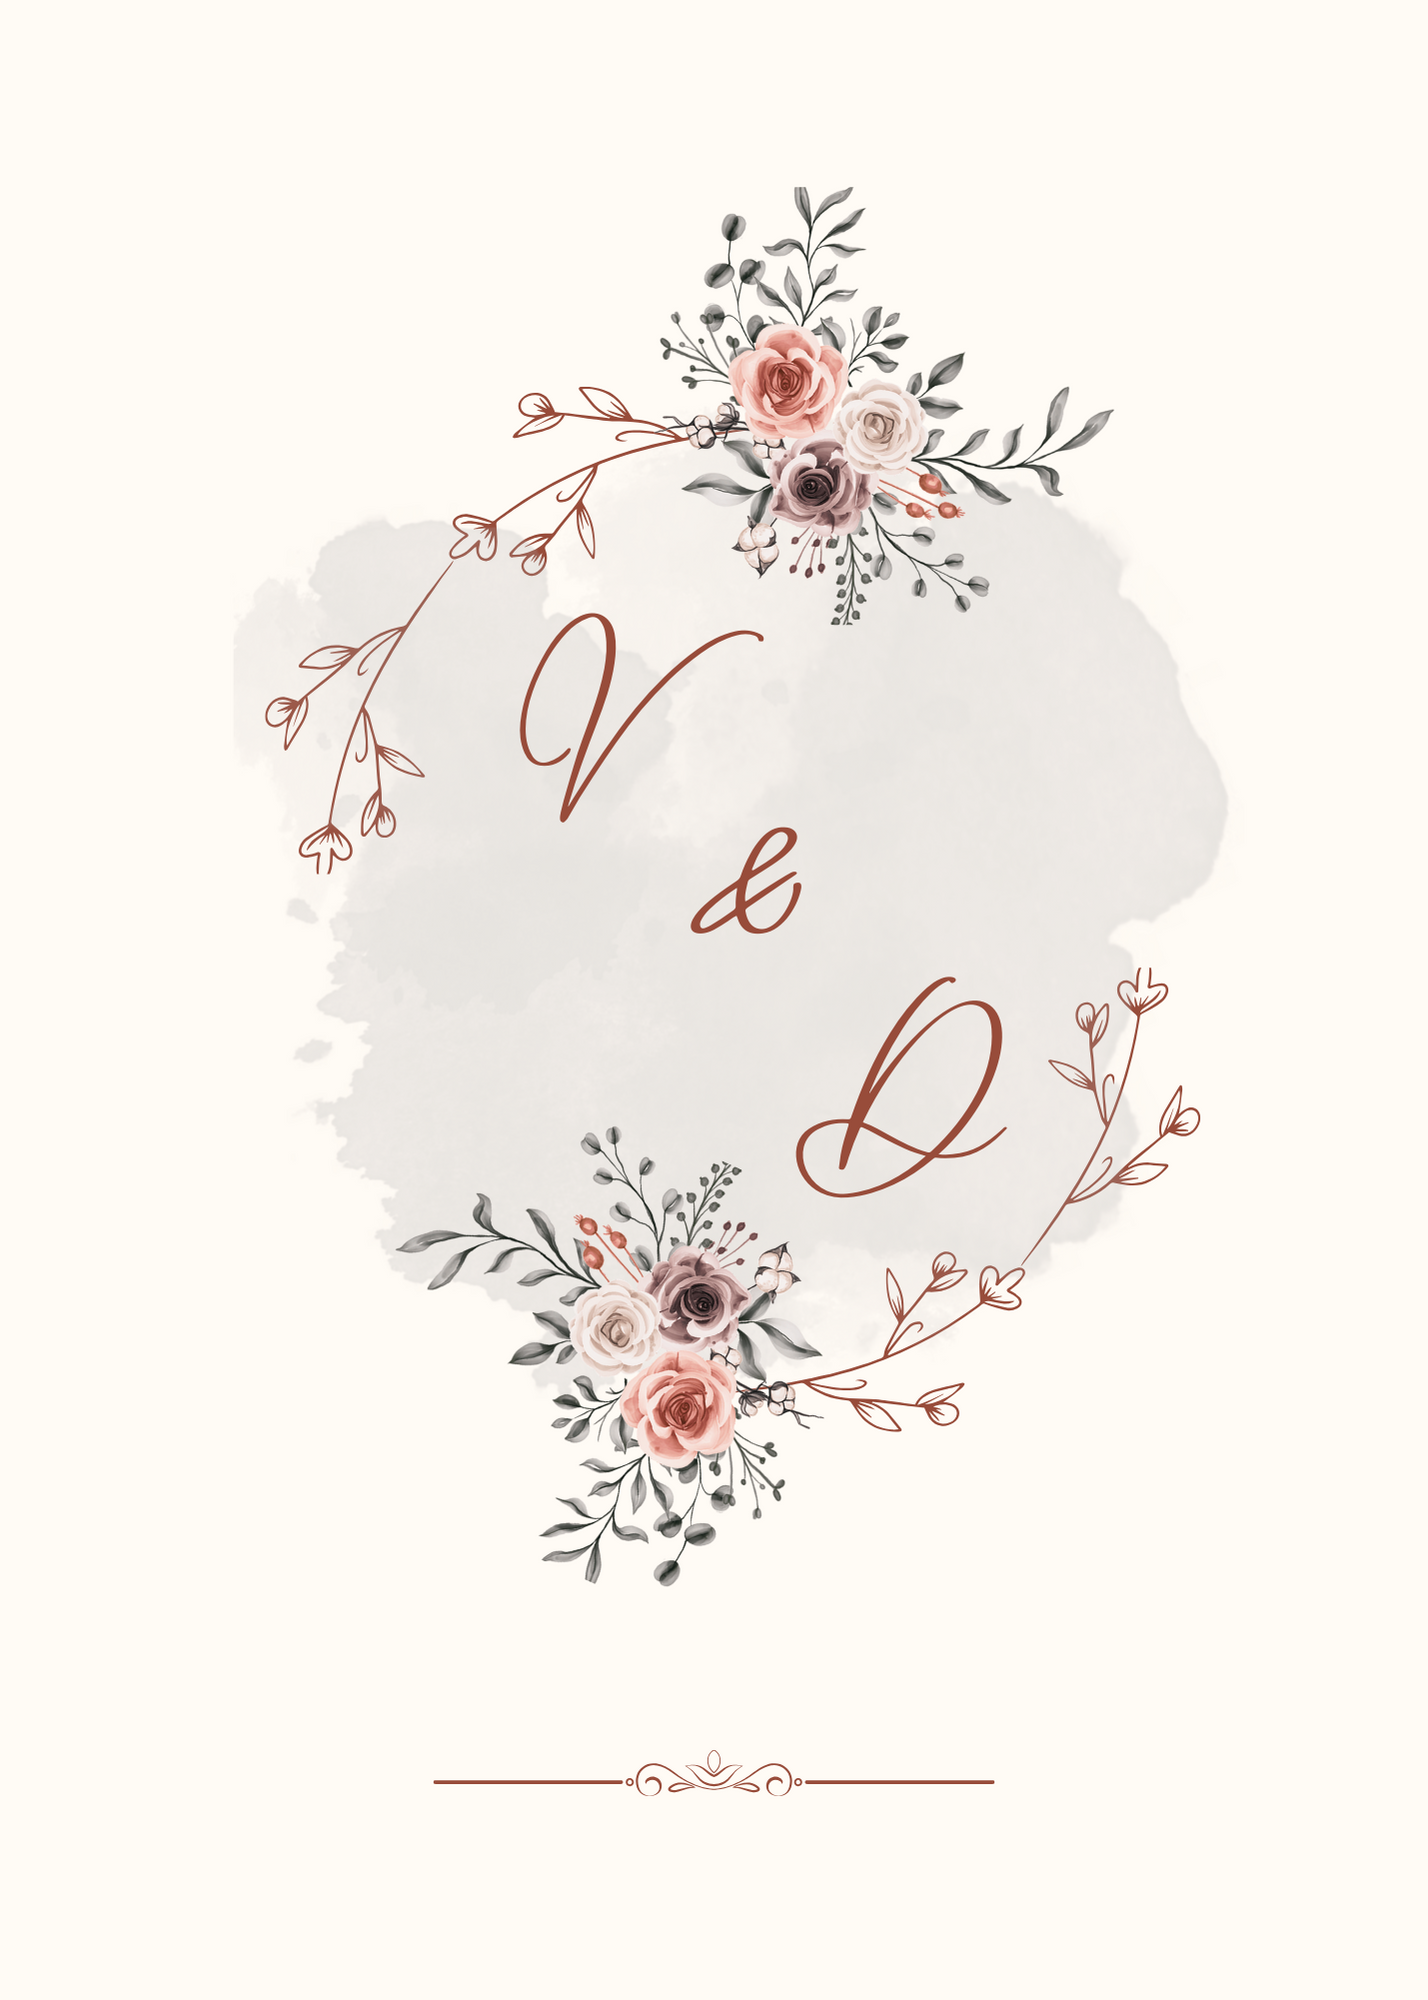
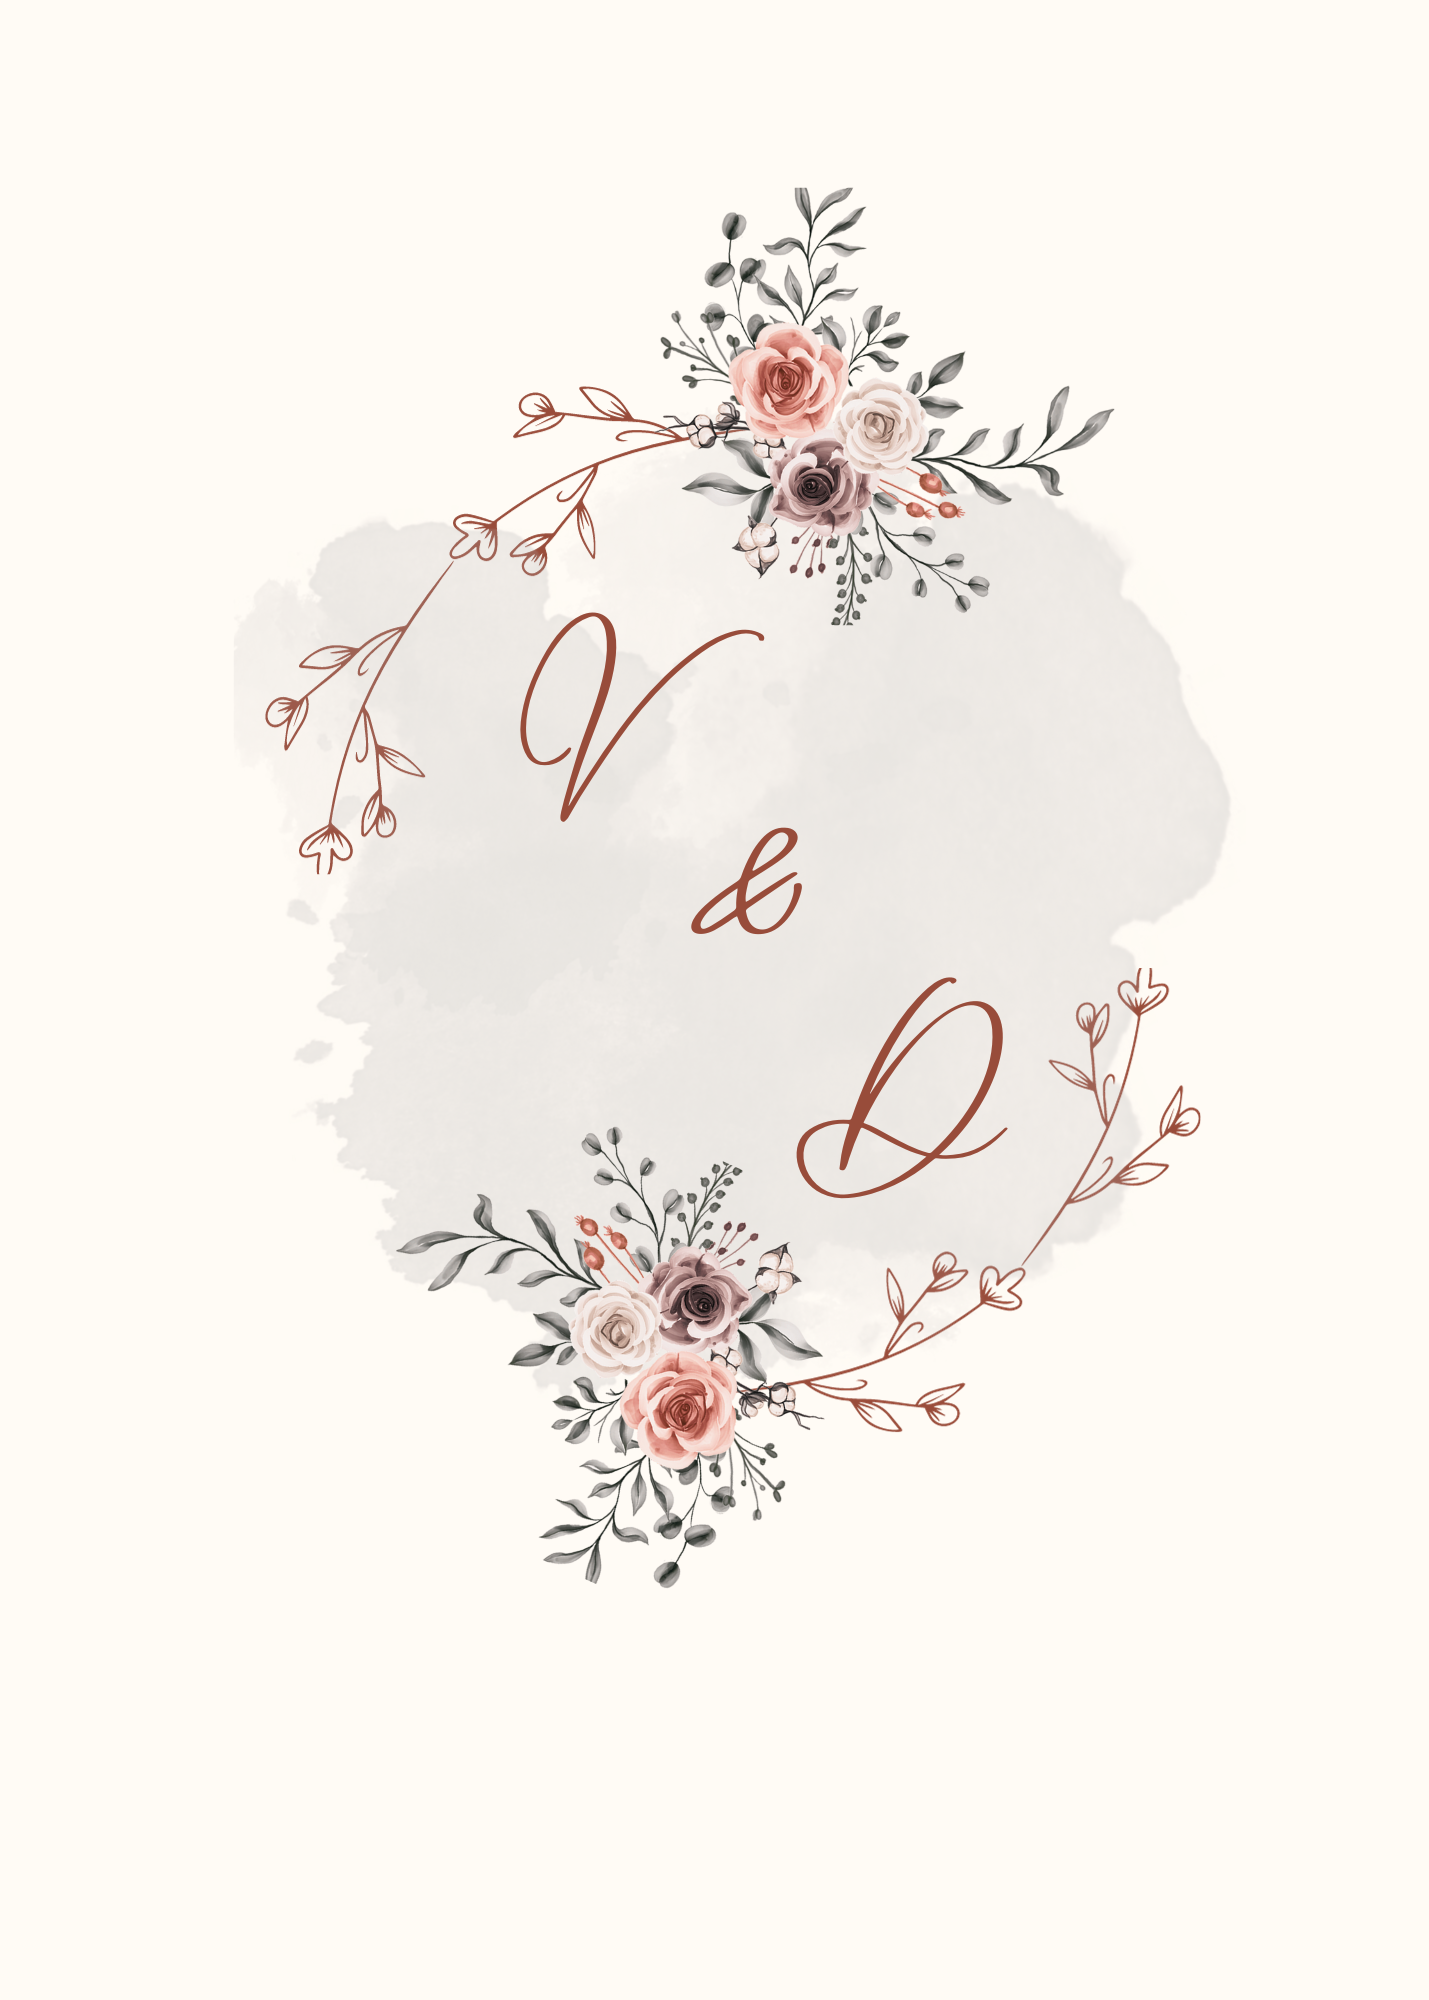
fix

diff --git a/index.html b/index.html
@@ -31,7 +31,7 @@
 
   <section id="hero"
     class="hero w-100 h-100 p-3 mx-auto text-center d-flex justify-content-center align-items-center text-black">
-    <main style="color: black; margin-block-start: auto;">
+    <main style="color: black; margin-block-start: auto; margin-bottom: 50px;">
       <!-- <p style="color: black;">Akan melangsungkan pernikahan pada :</p> -->
       
       <!-- <h3>The Wedding Of</h3>
